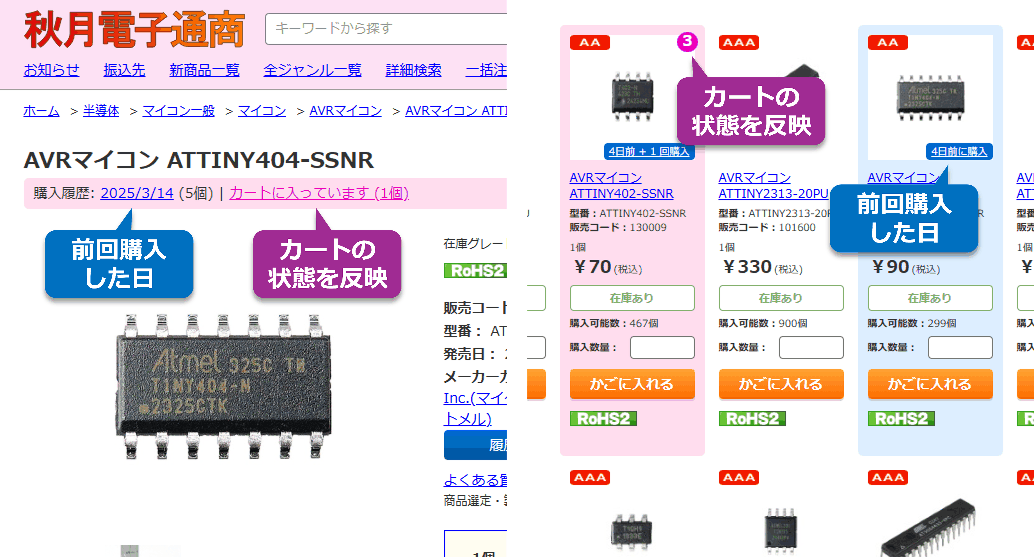
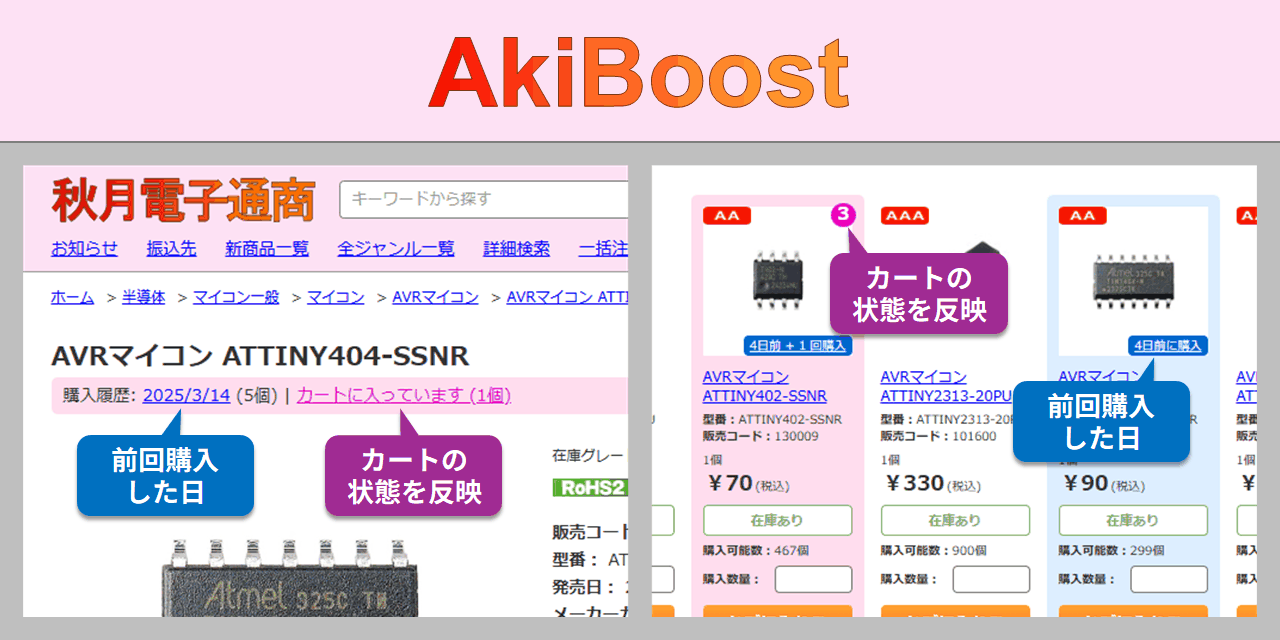
README 修正

diff --git a/README.md b/README.md
@@ -1,4 +1,4 @@
-<p align="center"><img src="./image/logo.svg" width="200"></p>
+# AkiBoost
 
 ![](./image/cover.png)
 
